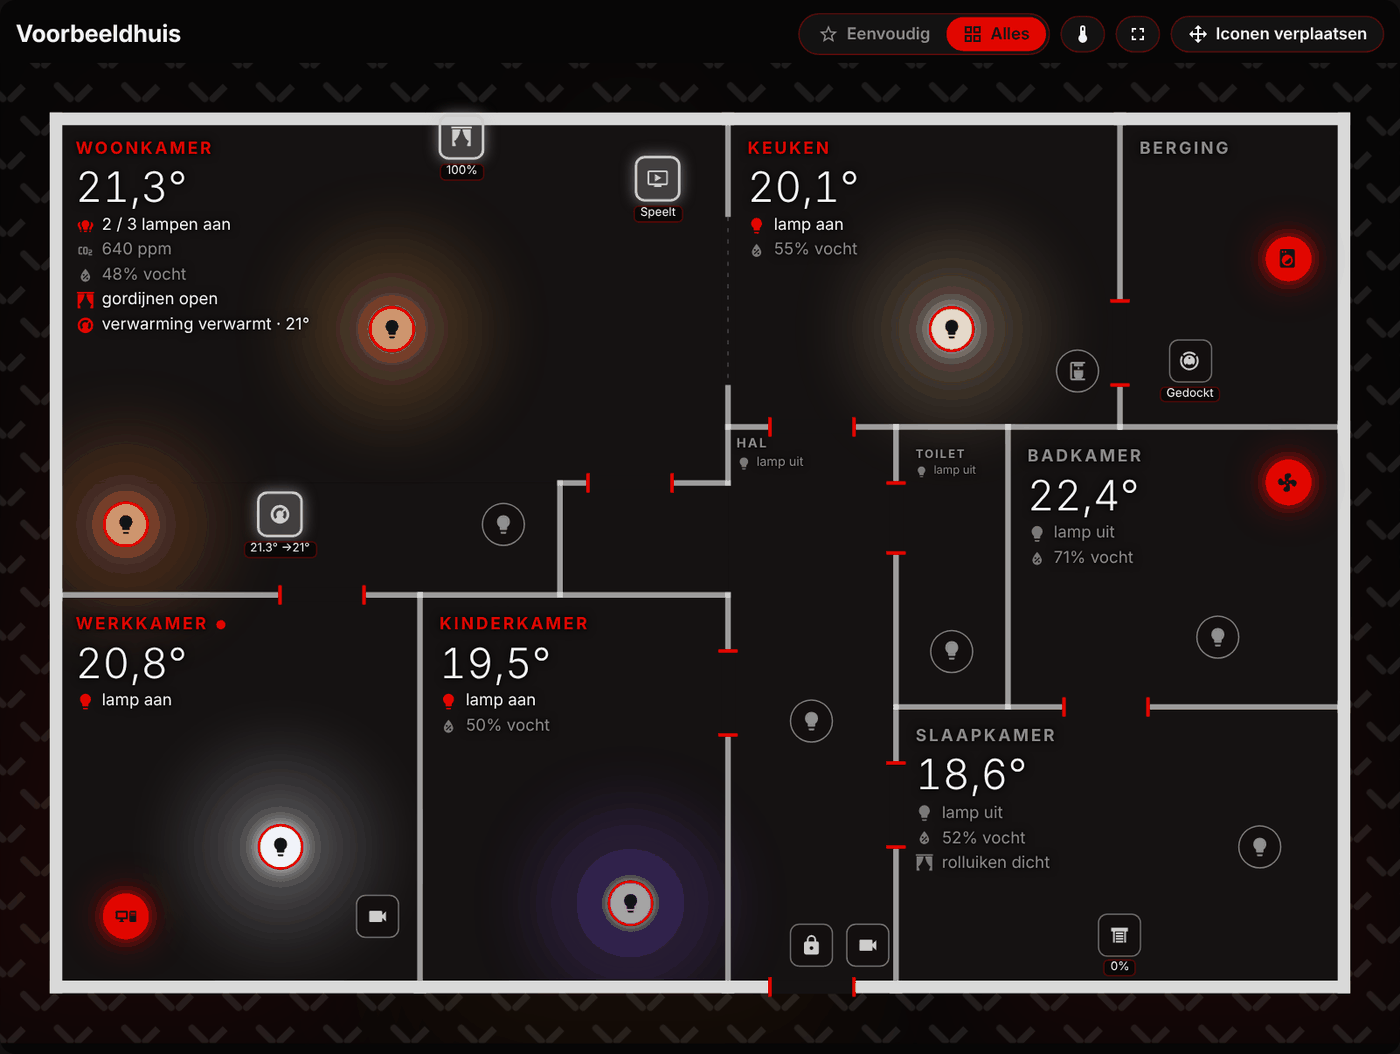
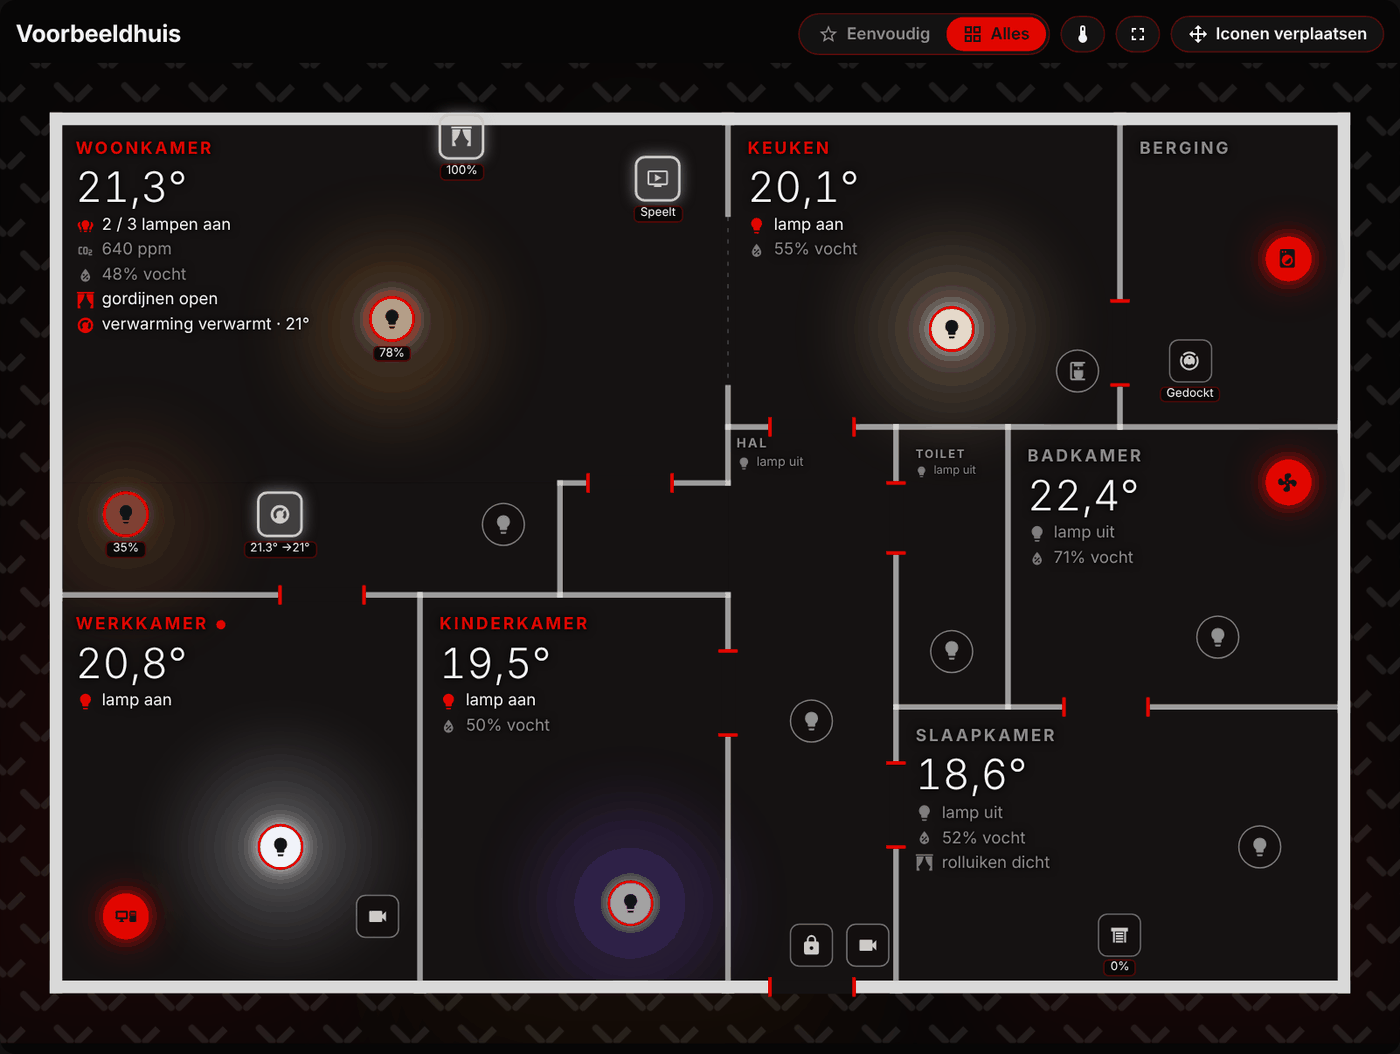
1.0.1: lampen tonen hun sterkte

Changed region(s): [[0.2457, 0.2732, 0.3071, 0.3643], [0.0614, 0.4554, 0.1229, 0.5465]]

diff --git a/custom_components/floorplan_studio/frontend/floorplan-studio-card.js b/custom_components/floorplan_studio/frontend/floorplan-studio-card.js
@@ -4,8 +4,8 @@ import {
   PLACE_DOMAINS, LAMP_DOMAINS, settingsOf, isOn, friendly, lightColor, shortState, loadPlans, savePlan, loadUsage, fire, esc,
   themeFromEntity, themeKey, roomPath, navigate, tempColor, roomPresence, roomAlerts, planVacuum, vacuumMapEntity, VACUUM_BUSY, transformImage,
   labelSpot, roomTextWidth,
-} from './fps-core.js?v=1.0.0';
-import { roomInfo, greeting, sideConfig, weatherInfo, mainAction, energyInfo, statusRow } from './fps-info.js?v=1.0.0';
+} from './fps-core.js?v=1.0.1';
+import { roomInfo, greeting, sideConfig, weatherInfo, mainAction, energyInfo, statusRow } from './fps-info.js?v=1.0.1';
 
 
 const CSS = `
@@ -36,6 +36,9 @@ const CSS = `
   .bub ha-state-icon, .bub ha-icon { --mdc-icon-size: max(14px, 1.6cqw); }
   .item.on .bub { background: rgb(var(--c, var(--fps-accent-rgb))); color: #10161d; border: 2px solid var(--fps-ring, transparent);
                   box-shadow: 0 0 1.2cqw rgba(var(--c, var(--fps-accent-rgb)), .9), 0 0 3cqw rgba(var(--c, var(--fps-accent-rgb)), .45); }
+  .item.lamp.on .bub { background: color-mix(in srgb, rgb(var(--c, var(--fps-accent-rgb))) calc(45% + 55% * var(--b, 1)), var(--fps-off));
+                       box-shadow: 0 0 1.2cqw rgba(var(--c, var(--fps-accent-rgb)), calc(.25 + .65 * var(--b, 1))), 0 0 3cqw rgba(var(--c, var(--fps-accent-rgb)), calc(.1 + .35 * var(--b, 1))); }
+  .nolevel .item.lamp.on .bub { --b: 1; }
   .item.device .bub { border-radius: 22%; border-color: rgba(var(--fps-device-rgb), .5); color: var(--fps-device); }
   .item.device.on .bub { background: rgba(var(--fps-device-rgb), .25); color: var(--fps-device); border-color: var(--fps-device); box-shadow: 0 0 1cqw rgba(var(--fps-device-rgb), .55); }
   .item.sensor .bub { border-radius: 999px; width: auto; padding: 0 .8cqw; font-size: max(10px, 1.05cqw); font-weight: 600; color: var(--fps-fg); }
@@ -345,6 +348,7 @@ class FloorplanStudioCard extends HTMLElement {
     this._card.classList.toggle('moving', this._moving);
     this._card.classList.toggle('can-edit', this._isAdmin && !this.planOverride);
     this._card.classList.toggle('notags', !this._s.show_tags);
+    this._card.classList.toggle('nolevel', this._s.lamp_level === false);
     this._built = true;
     this._themeKey = undefined;
     this._last = new Map();
@@ -416,6 +420,10 @@ class FloorplanStudioCard extends HTMLElement {
         const fixed = rec.it.color && /^#[0-9a-f]{6}$/i.test(rec.it.color) ? [1, 3, 5].map((i) => parseInt(rec.it.color.slice(i, i + 2), 16)).join(',') : null;
         const c = fixed || lightColor(st);
         if (c) rec.el.style.setProperty('--c', c); else rec.el.style.removeProperty('--c');
+        // brightness: a dimmed lamp gets a softer button and glow, and its level as a small tag
+        const br = st.attributes.brightness, lvl = on && br != null ? Math.max(1, Math.round(br / 2.55)) : null;
+        rec.el.style.setProperty('--b', lvl != null ? (lvl / 100).toFixed(2) : '1');
+        rec.el.querySelector('.tag').textContent = lvl != null && this._s.lamp_level !== false ? `${lvl}%` : '';
       } else if (rec.kind === 'sensor') {
         rec.el.querySelector('.bub').textContent = shortState(h, st);
       } else {
@@ -637,10 +645,12 @@ class FloorplanStudioCard extends HTMLElement {
         c.setAttribute('cx', rec.it.x); c.setAttribute('cy', rec.it.y); c.setAttribute('r', this._plan.width * 0.06);
         g.appendChild(c); this._glows.set(id, c);
       }
+      c.setAttribute('cx', rec.it.x); c.setAttribute('cy', rec.it.y);   // follows the lamp when it is moved
       const st = this._hass.states[id], lit = on && !!st && isOn(st) && !rec.el.classList.contains('hidden');
       const col = rec.el.style.getPropertyValue('--c') || '255,176,90';
+      const b = this._s.lamp_level !== false ? parseFloat(rec.el.style.getPropertyValue('--b')) || 1 : 1;
       c.setAttribute('fill', `rgb(${col})`);
-      c.style.opacity = lit ? '' : '0';
+      c.style.opacity = lit ? (0.3 + 0.7 * b).toFixed(2) : '0';
     }
   }
 
@@ -824,7 +834,7 @@ class FloorplanStudioCard extends HTMLElement {
     if (this._themeKey === key) return;
     this._themeKey = key;
     if (first) return;
-    this._card.className = 't-' + real + (this._zoomRoom ? ' zoomed' : '') + (this._moving ? ' moving' : '') + (this._s.show_tags ? '' : ' notags');
+    this._card.className = 't-' + real + (this._zoomRoom ? ' zoomed' : '') + (this._moving ? ' moving' : '') + (this._s.show_tags ? '' : ' notags') + (this._s.lamp_level === false ? ' nolevel' : '');
     this._card.setAttribute('style', themeStyle(this._theme, this._hass, this._s));
     const sel = this.shadowRoot.querySelector('#theme');            // keep the dropdown in step when the theme changes elsewhere
     if (sel && sel.value !== real) sel.value = real;

diff --git a/custom_components/floorplan_studio/frontend/floorplan-studio-panel.js b/custom_components/floorplan_studio/frontend/floorplan-studio-panel.js
@@ -1,10 +1,10 @@
 // Floorplan Studio – editor panel (sidebar → Floorplan).
-import './floorplan-studio-card.js?v=1.0.0';
+import './floorplan-studio-card.js?v=1.0.1';
 import {
   VERSION, THEMES, themeStyle, computeWalls, nearestWall, norm, roomBBox, roomAt, areaEntities, entityArea,
   PLACE_DOMAINS, placeCandidates, friendly, newPlan, DEFAULT_SETTINGS, settingsOf, loadPlans, savePlan, esc,
-} from './fps-core.js?v=1.0.0';
-import { buildDashboard } from './fps-dashboard.js?v=1.0.0';
+} from './fps-core.js?v=1.0.1';
+import { buildDashboard } from './fps-dashboard.js?v=1.0.1';
 
 const L = {
   en: {
@@ -34,7 +34,7 @@ const L = {
     auto_domains: 'Which kinds of devices', reset: 'Reset to defaults', simple: 'Simple', all: 'All',
     theme_entity: 'Theme for the whole house (helper)', theme_entity_hint: 'Pick a dropdown helper: every screen then follows the same theme, and automations can switch it.', make_helper: 'Create helper', own_choice: 'each device chooses',
     headline: 'Big value', headline_auto: 'temperature', extra_rows: 'Extra rows in the text block', floor: 'Floor', floor_plain: 'plain', floor_tiles: 'tiles', floor_wood: 'wood',
-    set_text: 'Text block and light', glow_style: 'Light', glow_lamp: 'soft pool of light per lamp', glow_room: 'whole room glows', glow_off: 'no glow',
+    set_text: 'Text block and light', glow_style: 'Light', glow_lamp: 'soft pool of light per lamp', glow_room: 'whole room glows', glow_off: 'no glow', lamp_level: 'Show how bright each lamp is',
     show_co2: 'CO2', show_covers: 'Curtains / shutters', show_climate: 'Heating / air conditioning', show_media: 'What is playing', info_rows: 'Maximum number of rows',
     compass: 'Compass (degrees, empty = none)', greeting: 'Greeting + who is home (with side column)',
     set_side: 'Side column', side_hint: 'Shown when the card has “side: true” (Create dashboard does that). Empty = chosen automatically.',
@@ -82,7 +82,7 @@ const L = {
     auto_domains: 'Welke soorten apparaten', reset: 'Standaardwaarden herstellen', simple: 'Eenvoudig', all: 'Alles',
     theme_entity: 'Thema voor het hele huis (helper)', theme_entity_hint: 'Kies een invoerlijst-helper: elk scherm volgt dan hetzelfde thema, en je kunt het thema met automatiseringen wisselen.', make_helper: 'Helper aanmaken', own_choice: 'per apparaat zelf kiezen',
     headline: 'Grote waarde', headline_auto: 'temperatuur', extra_rows: 'Extra regels in het tekstblok', floor: 'Vloer', floor_plain: 'gewoon', floor_tiles: 'tegels', floor_wood: 'hout',
-    set_text: 'Tekstblok en licht', glow_style: 'Licht', glow_lamp: 'zachte lichtvlek per lamp', glow_room: 'hele ruimte gloeit', glow_off: 'geen gloed',
+    set_text: 'Tekstblok en licht', glow_style: 'Licht', glow_lamp: 'zachte lichtvlek per lamp', glow_room: 'hele ruimte gloeit', glow_off: 'geen gloed', lamp_level: 'Sterkte van lampen tonen',
     show_co2: 'CO2', show_covers: 'Gordijnen / rolluiken', show_climate: 'Verwarming / airco', show_media: 'Wat er speelt', info_rows: 'Maximaal aantal regels',
     compass: 'Kompas (graden, leeg = geen)', greeting: 'Begroeting + wie er thuis is (met zijkolom)',
     set_side: 'Zijkolom', side_hint: 'Wordt getoond als de kaart “side: true” heeft (zo maakt Dashboard maken hem). Leeg = automatisch gekozen.',
@@ -752,7 +752,7 @@ class FloorplanStudioPanel extends HTMLElement {
       <h3>${l.set_sun}</h3>${num('sun_before', 0, 120, 5)}${num('sun_ramp', 15, 240, 5)}
       <h3>${l.set_text}</h3>
       <div class="field"><span>${l.glow_style}</span><select data-set="glow_style">${['lamp', 'room', 'off'].map((k) => `<option value="${k}" ${s.glow_style === k ? 'selected' : ''}>${l['glow_' + k]}</option>`).join('')}</select></div>
-      ${chk('show_co2')}${chk('show_covers')}${chk('show_climate')}${chk('show_media')}${num('info_rows', 1, 8)}
+      ${chk('lamp_level')}${chk('show_co2')}${chk('show_covers')}${chk('show_climate')}${chk('show_media')}${num('info_rows', 1, 8)}
       <div class="field"><span>${l.compass}</span><input type="number" min="0" max="359" id="compass" value="${s.compass ?? ''}"></div>
       ${chk('greeting')}
       <h3>${l.set_side}</h3><p>${l.side_hint}</p>

diff --git a/scripts/screenshots/demo-hass.js b/scripts/screenshots/demo-hass.js
@@ -11,7 +11,7 @@ const AREAS = {
 // [entity_id, state, attributes, area]
 const DEF = [
   ['light.woonkamer_plafond', 'on', { friendly_name: 'Plafondlamp woonkamer', color_temp_kelvin: 2700, brightness: 200 }, 'woonkamer'],
-  ['light.staande_lamp', 'on', { friendly_name: 'Staande lamp', rgb_color: [255, 140, 60], brightness: 160 }, 'woonkamer'],
+  ['light.staande_lamp', 'on', { friendly_name: 'Staande lamp', rgb_color: [255, 140, 60], brightness: 90 }, 'woonkamer'],
   ['light.leeslamp', 'off', { friendly_name: 'Leeslamp' }, 'woonkamer'],
   ['media_player.woonkamer_tv', 'playing', { friendly_name: 'Televisie', supported_features: 152463, media_title: 'Journaal', device_class: 'tv' }, 'woonkamer'],
   ['climate.woonkamer', 'heat', { friendly_name: 'Thermostaat', current_temperature: 21.3, temperature: 21, hvac_modes: ['off', 'heat'] }, 'woonkamer'],

diff --git a/custom_components/floorplan_studio/frontend/fps-core.js b/custom_components/floorplan_studio/frontend/fps-core.js
@@ -1,6 +1,6 @@
 // Floorplan Studio – shared helpers for the card and the editor panel.
 
-export const VERSION = '1.0.0';
+export const VERSION = '1.0.1';
 
 /* ------------------------------------------------------------------ i18n */
 const STR = {
@@ -430,6 +430,7 @@ export const DEFAULT_SETTINGS = {
   theme_entity: '',
   room_tap: 'zoom',
   glow_style: 'lamp',       // lamp: a soft pool of light around each lamp | room: the whole room glows | off
+  lamp_level: true,         // dimmed lamps: softer button and glow, and their level ("40%") as a tag
   show_co2: true, show_covers: true, show_climate: true, show_media: true,   // extra rows in the room text
   info_rows: 5,             // at most this many rows under a room's name
   compass: null,            // north arrow: degrees (0 = up), empty = none

diff --git a/custom_components/floorplan_studio/frontend/fps-dashboard.js b/custom_components/floorplan_studio/frontend/fps-dashboard.js
@@ -1,7 +1,7 @@
 // Floorplan Studio – builds a complete dashboard around a floorplan:
 // Home · Floorplan · Kiosk · Energy · Outside · TV, plus a page per room (tabs are only added when there is something to show).
 // Uses only built-in cards, and nicer HACS cards (advanced-camera-card, clock-weather-card) when they are installed.
-import { entityArea, roomPath } from './fps-core.js?v=1.0.0';
+import { entityArea, roomPath } from './fps-core.js?v=1.0.1';
 
 const OUTSIDE = /buiten|tuin|outside|outdoor|garden|yard|oprit|driveway|terras|patio|balkon|balcony|garage|voortuin|achtertuin|poort|gate|dak|roof|straat|street/i;
 

diff --git a/custom_components/floorplan_studio/frontend/fps-info.js b/custom_components/floorplan_studio/frontend/fps-info.js
@@ -1,6 +1,6 @@
 // Floorplan Studio – what the room text blocks and the side column show.
 // Pure functions on `hass` (no DOM), so they are easy to test.
-import { areaEntities, roomSummary, friendly, shortState, settingsOf, isOn } from './fps-core.js?v=1.0.0';
+import { areaEntities, roomSummary, friendly, shortState, settingsOf, isOn } from './fps-core.js?v=1.0.1';
 
 const NL = (hass) => (hass?.locale?.language || hass?.language || 'en').startsWith('nl');
 const W = (hass, nl, en) => (NL(hass) ? nl : en);

diff --git a/custom_components/floorplan_studio/const.py b/custom_components/floorplan_studio/const.py
@@ -1,7 +1,7 @@
 """Constants for Floorplan Studio."""
 
 DOMAIN = "floorplan_studio"
-VERSION = "1.0.0"
+VERSION = "1.0.1"
 
 STORAGE_KEY = "floorplan_studio.plans"
 STORAGE_KEY_USAGE = "floorplan_studio.usage"

diff --git a/docs/HANDLEIDING.md b/docs/HANDLEIDING.md
@@ -281,6 +281,8 @@ Het blok zoekt zelf de plek in de ruimte met de minste iconen eronder. Wil je he
 
 Een lamp die aan is geeft een zachte lichtvlek in zijn eigen kleur op de vloer. Bij stap 5 kun je in plaats daarvan de hele ruimte laten gloeien, of de gloed uitzetten.
 
+Een dimbare lamp laat ook zien hoe fel hij staat: onder de knop staat het percentage, en hoe lager de lamp staat, hoe zachter de knop en de lichtvlek. Dat zet je uit met *Sterkte van lampen tonen* bij stap 5.
+
 ### Ruimtes kleuren op temperatuur
 
 ![Ruimtes gekleurd op temperatuur](img/temperatuur.png)

diff --git a/CHANGELOG.md b/CHANGELOG.md
@@ -1,5 +1,9 @@
 # Changelog
 
+## 1.0.1
+- Lampen tonen hun sterkte: het percentage onder de knop, en een gedimde lamp heeft een zachtere knop en lichtvlek (uit te zetten met *Sterkte van lampen tonen*).
+- De lichtvlek verhuist mee als je een lamp versleept.
+
 ## 1.0.0
 Eerste versie.
 
